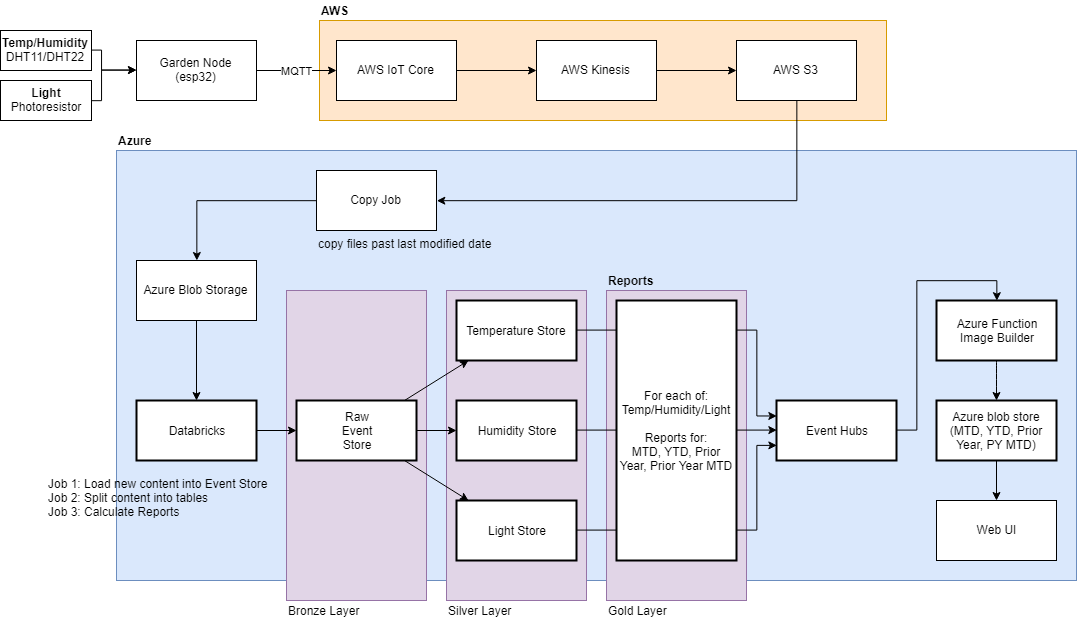
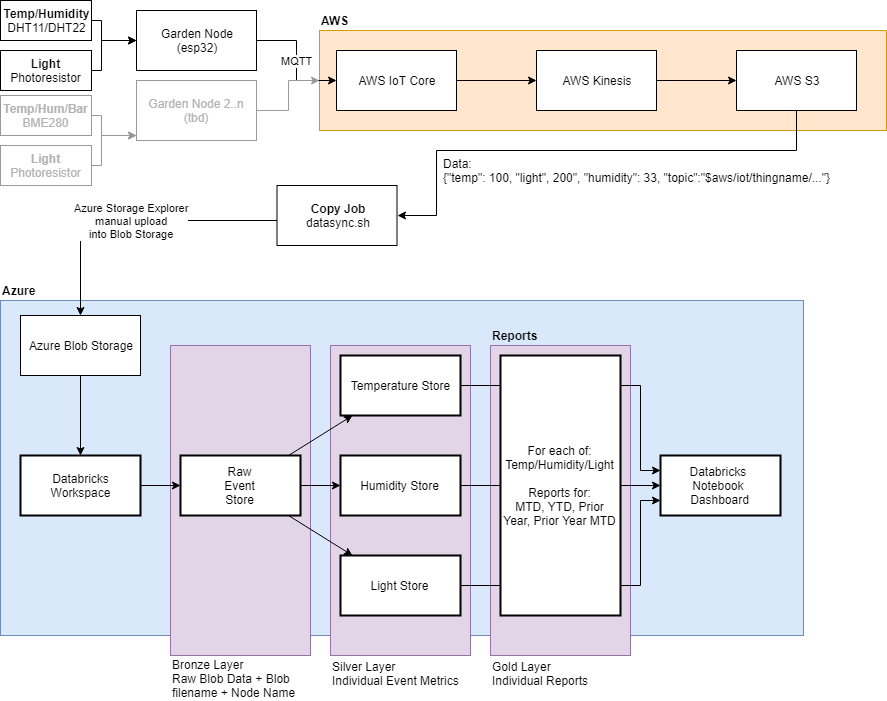
readme updates, design file

diff --git a/README.md b/README.md
@@ -14,8 +14,6 @@
     * AWS CLI command from .\data folder: `aws s3 sync s3://garden-nodes .`
 * [Azure Storage Explorer](https://azure.microsoft.com/en-ca/features/storage-explorer/)
   * Amazing tool, easily upload nested folders of `.\data` for example.
-* Cluster Setup
-  * 
 
 ## TODO
 
@@ -25,16 +23,15 @@
 * [x] Create Databricks cluster (DS3 v2) [Cluster Pricing](https://azure.microsoft.com/en-ca/pricing/details/databricks/)
 * [x] Connect Databricks instance to Azure Storage Account [](https://caiomsouza.medium.com/how-to-connect-azure-databricks-with-azure-blob-storage-1b3307620524)
   * Added environment variable `GARDENDATA_STORAGEKEY` with Azure Storage Account Key. [This link](https://docs.microsoft.com/en-us/azure/databricks/data/data-sources/azure/azure-storage) has other methods to connect Azure Blob Storage.
-* [ ] Job to injest data into Databricks Bronze Layer
-* [ ] Job to injest data into Databricks Silver Layer
-* [ ] Job to injest data into Databricks Gold Layer
+* [x] Job to injest data into Databricks Bronze Layer
+* [x] Job to injest data into Databricks Silver Layer
+* [x] Job to injest data into Databricks Gold Layer
+* [ ] Secrets management (using `dbutils.secrets`, not `os.environ`)
 * [ ] Event Hubs
 * [ ] Script to enable/disable Azure Resources
 * [ ] Create Event Hub Listener to write images to Storage Account
 * [ ] Job to injest data into Databricks Gold Layer + trigger events
-* [ ] Add more data into Databricks
 * [ ] Add copy job from S3 to Azure
-* [ ] Secrets management (using `dbutils.secrets`, not `os.environ`)
 
 ## Databricks Notes
 
@@ -57,6 +54,11 @@
   * Bronze: Raw Injestion
   * Silver: Filtered, cleaned, augmented
   * Gold: Business-level aggregates & reporting
+* Secrets Management
+  * Blog: [Visualize data with Azure Databricks](https://medium.com/analytics-vidhya/visualize-data-in-azure-databricks-d9f087be093d)
+    * Looks like a good E2E Databricks walkthrough, includes proper secrets management. Have not yet tried this.
+  * [Mount a Blob container](https://docs.databricks.com/data/data-sources/azure/azure-storage.html#azure-blob-storage-notebook)
+    * Top command includes reference to secrets for key.
 
 ## Databricks Documentation
 * [SQL Reference](https://spark.apache.org/docs/3.1.1/sql-ref.html)
@@ -71,6 +73,7 @@
 * [Apache Spark 3.1.1 Documentation:](https://spark.apache.org/docs/3.1.1/)
   * [Structured Streaming Programming Guide](http://spark.apache.org/docs/latest/structured-streaming-programming-guide.html)
     * writeStream ^^
+    * [Structured Streaming to Event Hubs with PySpark](https://github.com/Azure/azure-event-hubs-spark/blob/master/docs/PySpark/structured-streaming-pyspark.md)
 * [Databricks Delta Engine guide](https://docs.databricks.com/delta/)
 * [Azure Databricks Documentation](https://docs.microsoft.com/en-us/azure/databricks/)
 * [Microsoft: Table streaming reads and writes](https://docs.microsoft.com/en-us/azure/databricks/delta/delta-streaming)
@@ -79,6 +82,9 @@
 * [Azure Databricks Pricing](https://azure.microsoft.com/en-ca/pricing/details/databricks/)
   * DS3 v2 4 vCPU 14 GiB RAM 0.75 DBU $0.743/hour CAD
 * [Databricks Visualizations](https://docs.databricks.com/notebooks/visualizations/index.html)
+* Secrets Management
+  * [Azure Key Vault-backed scopes](https://docs.microsoft.com/en-us/azure/databricks/security/secrets/secret-scopes#azure-key-vault-backed-scopes)
+
 
 ## Libraries
 
@@ -89,6 +95,7 @@
 ### com.microsoft.azure:azure-eventhubs-spark
 
 * [Azure Event Hubs](https://docs.microsoft.com/en-us/azure/databricks/spark/latest/structured-streaming/streaming-event-hubs)
+  * [github guide](https://github.com/Azure/azure-event-hubs-spark/blob/master/docs/PySpark/structured-streaming-pyspark.md)
 * [Maven Repository](https://mvnrepository.com/artifact/com.microsoft.azure/azure-eventhubs-spark)
 
 ## Questions
